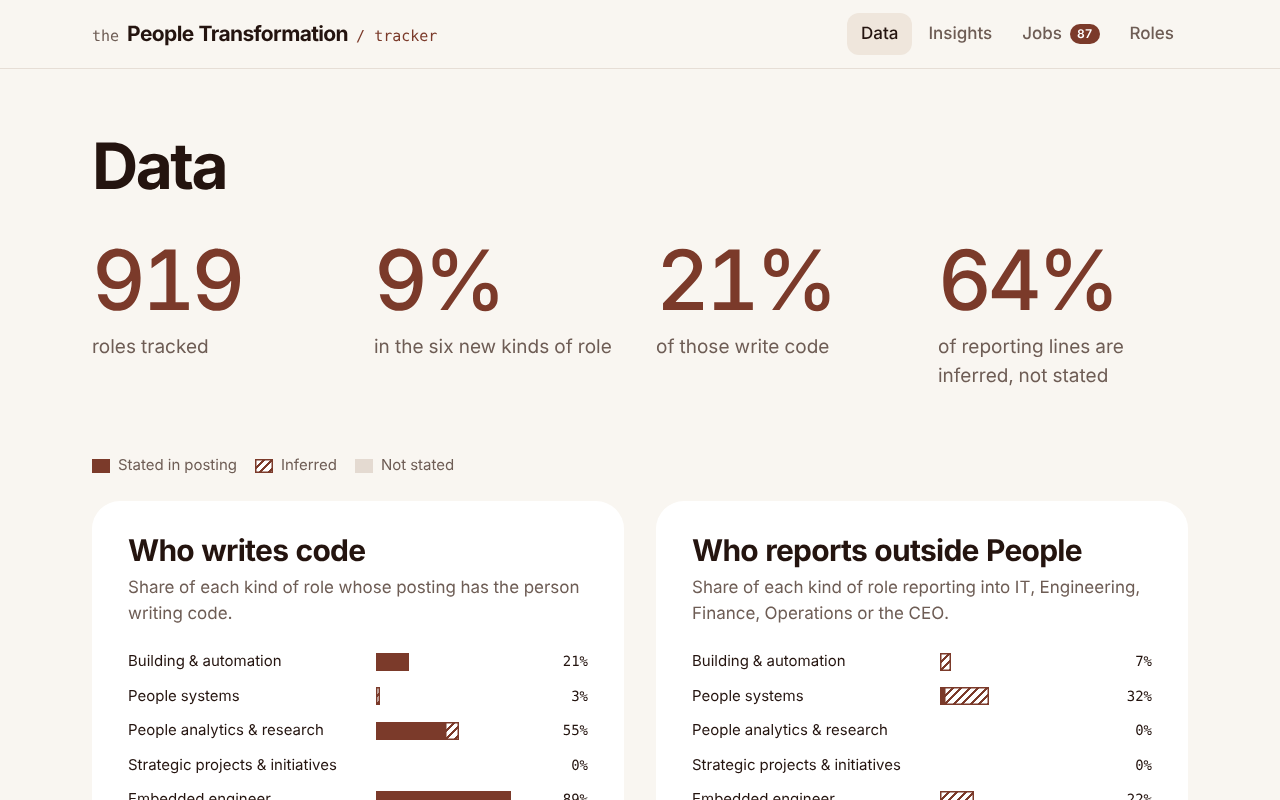
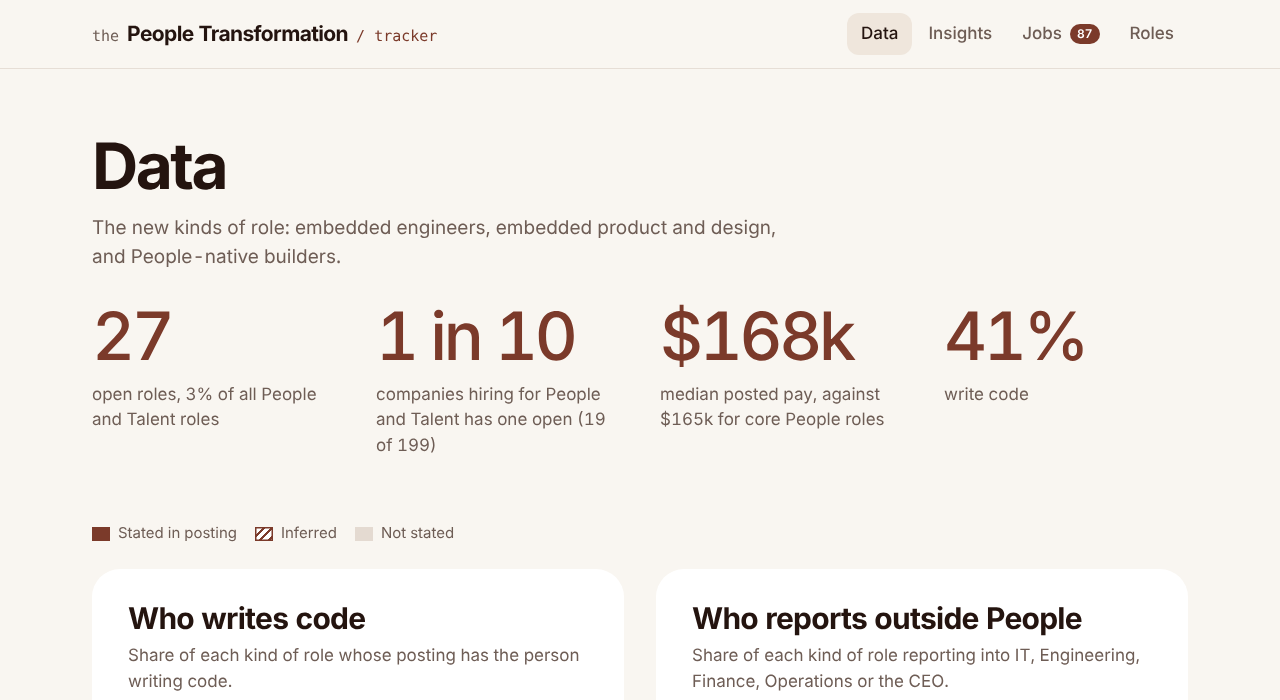
People Transformation Tracker: Data top-line on novel elements
Claude-Session: https://claude.ai/code/session_019ZNmbmFfctS6KLpxg2kb5y

diff --git a/people-transformation/app.js b/people-transformation/app.js
@@ -260,13 +260,14 @@
 
   /* ---------- Data ---------- */
   function data() {
-    var NEW = ["Embedded engineer", "Embedded product & design", "Building & automation"];
-    var nr = R.filter(function (r) { return NEW.indexOf(r.group) >= 0; });
-    var core = R.filter(function (r) { return r.group === "Core People & Talent"; });
-    function medPay(rows) { var a = rows.filter(function (r) { return r.comp; }).map(function (r) { return (r.comp[0] + (r.comp[1] || r.comp[0])) / 2; }).sort(function (x, y) { return x - y; });
-      if (!a.length) return 0; var m = a.length >> 1; return a.length % 2 ? a[m] : (a[m - 1] + a[m]) / 2; }
-    var cos = {}, ncos = {}; R.forEach(function (r) { cos[r.company] = 1; }); nr.forEach(function (r) { ncos[r.company] = 1; });
-    var nc = Object.keys(ncos).length, tc = Object.keys(cos).length;
+    var BUILDG = ["Embedded engineer", "Embedded product & design", "Building & automation"];
+    var TECH = ["IT", "Data/Analytics", "Product", "Security"];
+    var recruiting = /recruit|sourcing|coordination/;
+    var nAI = R.filter(function (r) { return lv(r) > 0; }).length;
+    var nAdopt = R.filter(function (r) { return lv(r) >= 3; }).length;
+    var nBuild = R.filter(function (r) { return lv(r) === 2 || BUILDG.indexOf(r.group) >= 0; }).length;
+    var nCode = R.filter(function (r) { return r.code === "yes"; }).length;
+    var nTech = R.filter(function (r) { return r.works_with.some(function (w) { return TECH.indexOf(w) >= 0 || (w === "Engineering" && !recruiting.test(r.sub)); }); }).length;
     function byG(g) { return R.filter(function (r) { return r.group === g; }); }
     function splitBars(test, title, sub) {
       var rows = ROLE_ORDER.map(function (g) { var rs = byG(g);
@@ -284,11 +285,12 @@
     var outCard = splitBars(function (r) { return ["IT", "Engineering", "Finance", "Operations", "CEO/Executive", "Other"].indexOf(r.reports_into) >= 0; },
       "Who reports outside People", "Share of each kind of role reporting into IT, Engineering, Finance, Operations or the CEO.");
     app.innerHTML = '<h1>Data</h1>' +
-      '<p class="muted" style="margin:-24px 0 32px;font-size:19px;max-width:60ch">The new kinds of role: embedded engineers, embedded product and design, and People-native builders.</p>' +
-      '<div class="stats">' + [[n(nr.length), "open roles, " + pct(nr.length, R.length) + "% of all People and Talent roles"],
-        ["1 in " + Math.round(tc / Math.max(nc, 1)), "companies hiring for People and Talent has one open (" + nc + " of " + tc + ")"],
-        [k(medPay(nr)), "median posted pay, against " + k(medPay(core)) + " for core People roles"],
-        [pct(nr.filter(function (r) { return r.code === "yes"; }).length, nr.length) + "%", "write code"]].map(function (s) {
+      '<p class="muted" style="margin:-24px 0 32px;font-size:19px;max-width:60ch">Across ' + n(R.length) + ' open People and Talent roles at US startups and growth companies:</p>' +
+      '<div class="stats">' + [[pct(nAI, R.length) + "%", "work with AI"],
+        [pct(nAdopt, R.length) + "%", "lead AI adoption, for the People team or the whole company"],
+        [pct(nBuild, R.length) + "%", "build: tools, automations, agents or integrations"],
+        [pct(nTech, R.length) + "%", "work with IT, data, product or engineering teams"],
+        [pct(nCode, R.length) + "%", "write code"]].map(function (s) {
         return '<div><b>' + s[0] + '</b><span>' + s[1] + '</span></div>'; }).join("") + '</div>' + LEGEND +
       '<div class="grid2">' + codeCard + outCard + '</div>' + src();
   }

diff --git a/people-transformation/style.css b/people-transformation/style.css
@@ -222,3 +222,4 @@ a.card.qc { display: flex; flex-direction: column; justify-content: space-betwee
 .stats { gap: 32px 40px; }
 .stats b { font-size: clamp(48px, 5.2vw, 68px); white-space: nowrap; }
 .stats span { font-size: 17px; }
+@media (min-width: 1000px) { .stats { grid-template-columns: repeat(5, 1fr); gap: 32px; } .stats b { font-size: 60px; } }
